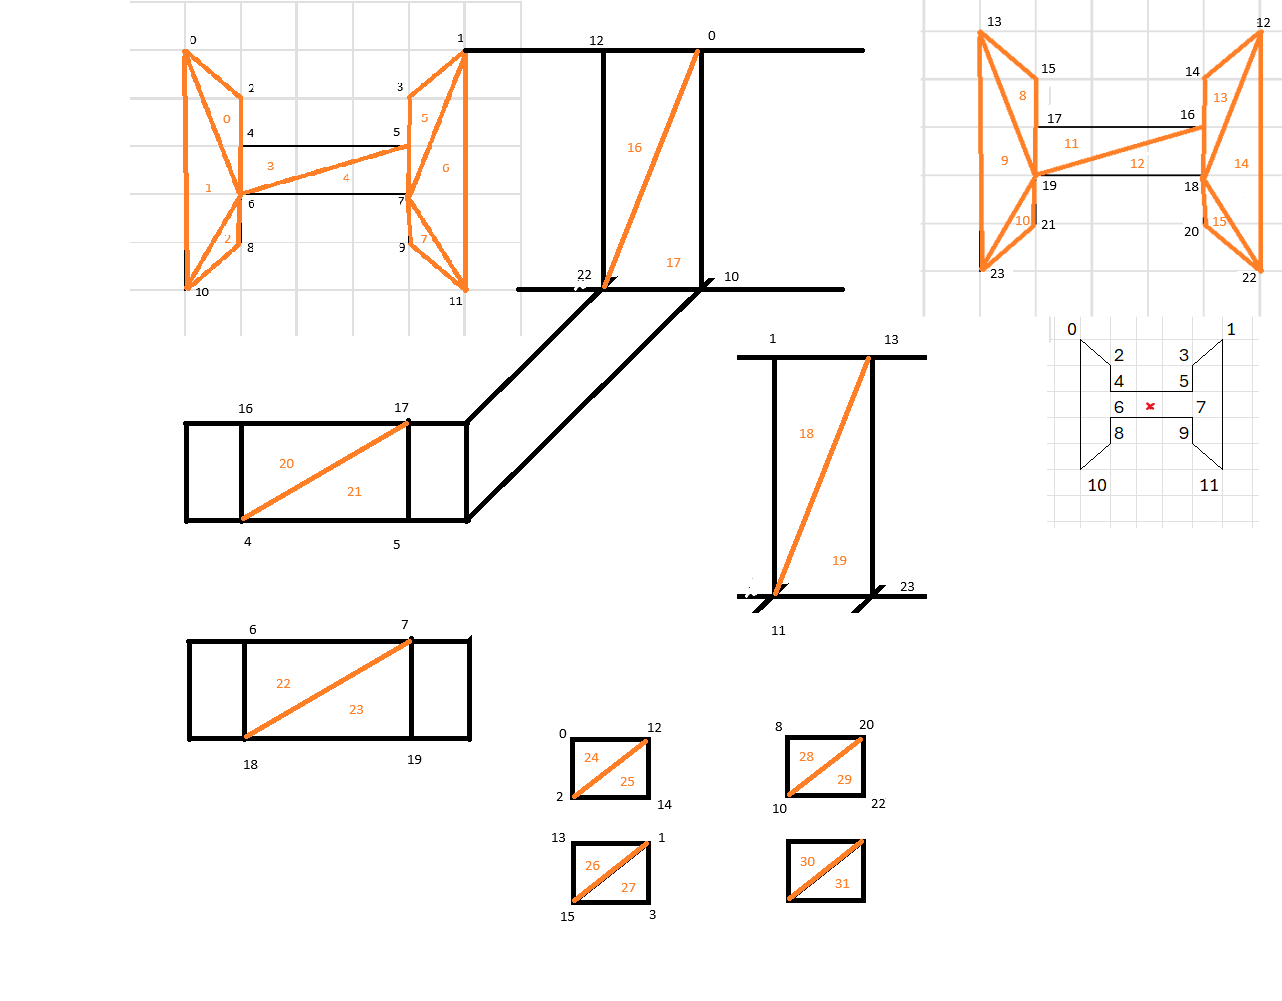
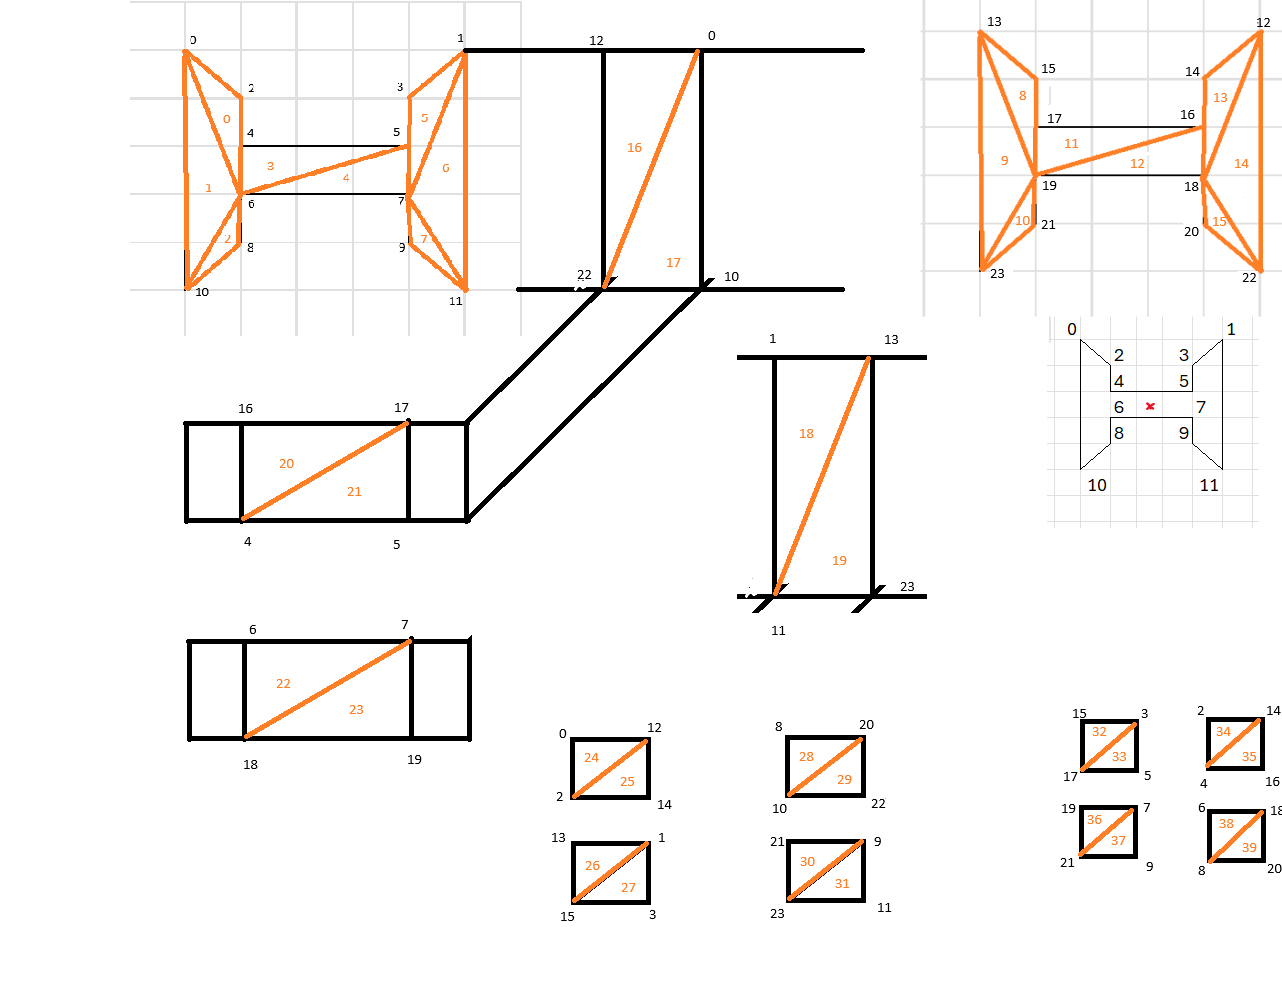
Began work on textures and normals Signed-off-by: Student Harvey Smith (TL_KCOMP_B_Y3) <t00264389@mymtu.ie>

diff --git a/Letter Graphics/Assets/Scripts/Model.cs b/Letter Graphics/Assets/Scripts/Model.cs
@@ -5,15 +5,123 @@ public class Model
 {
     List<Vector3Int> faces = new List<Vector3Int>();
     List<Vector3> vertices = new List<Vector3>();
+    List<Vector2> texture_coordinates = new List<Vector2>();
+    List<Vector3Int> texture_index_list = new List<Vector3Int>();
+    List<Vector3> normals = new List<Vector3>();
+
+
 
     public Model()
     {
         addVertices();
         addFaces();
+        addTextureCoords();
+        addTexttureIndex();
+        addNormals();
     }
 
+    private void addNormals()
+    {
+        normals.Add(new Vector3(0, 0, -1)); //0
+        normals.Add(new Vector3(0, 0, -1)); //1
+        normals.Add(new Vector3(0, 0, -1)); //2
+        normals.Add(new Vector3(0, 0, -1)); //3
+        normals.Add(new Vector3(0, 0, -1)); //4
+        normals.Add(new Vector3(0, 0, -1)); //5
+        normals.Add(new Vector3(0, 0, -1)); //6
+        normals.Add(new Vector3(0, 0, -1)); //7
+
+        normals.Add(new Vector3(0, 0, 1)); //8
+        normals.Add(new Vector3(0, 0, 1)); //9
+        normals.Add(new Vector3(0, 0, 1)); //10
+        normals.Add(new Vector3(0, 0, 1)); //11
+        normals.Add(new Vector3(0, 0, 1)); //12
+        normals.Add(new Vector3(0, 0, 1)); //13
+        normals.Add(new Vector3(0, 0, 1)); //14
+        normals.Add(new Vector3(0, 0, 1)); //15
+
+
+
+
+    }
+    private void addTexttureIndex()
+    {
+        texture_index_list.Add(new Vector3Int(4, 0, 12)); //0
+        texture_index_list.Add(new Vector3Int(12, 0, 20)); //1
+        texture_index_list.Add(new Vector3Int(16, 12, 20)); //2
+        texture_index_list.Add(new Vector3Int(8, 12, 9)); //3
+        texture_index_list.Add(new Vector3Int(13, 9, 12)); //4
+        texture_index_list.Add(new Vector3Int(5, 13, 1)); //5
+        /*
+        texture_index_list.Add(new Vector3Int(, , )); //6
+        texture_index_list.Add(new Vector3Int(, , )); //7
+        texture_index_list.Add(new Vector3Int(, , )); //8
+        texture_index_list.Add(new Vector3Int(, , )); //9
+        texture_index_list.Add(new Vector3Int(, , )); //10
+        texture_index_list.Add(new Vector3Int(, , )); //11
+        texture_index_list.Add(new Vector3Int(, , )); //12
+        texture_index_list.Add(new Vector3Int(, , )); //13
+        texture_index_list.Add(new Vector3Int(, , )); //14
+        texture_index_list.Add(new Vector3Int(, , )); //15
+        texture_index_list.Add(new Vector3Int(, , )); //16
+        texture_index_list.Add(new Vector3Int(, , )); //17
+        texture_index_list.Add(new Vector3Int(, , )); //18
+        texture_index_list.Add(new Vector3Int(, , )); //19
+        texture_index_list.Add(new Vector3Int(, , )); //20
+        texture_index_list.Add(new Vector3Int(, , )); //21
+        texture_index_list.Add(new Vector3Int(, , )); //22
+        texture_index_list.Add(new Vector3Int(, , )); //23
+        */
+
+
+
+
+    }
+
+    private void addTextureCoords()
+    {
+        texture_coordinates.Add(new Vector2(118 , 101)); //0
+        texture_coordinates.Add(new Vector2(268 , 101)); //1
+        texture_coordinates.Add(new Vector2(353 , 101)); //2
+        texture_coordinates.Add(new Vector2(503 , 101)); //3
+        texture_coordinates.Add(new Vector2(148 , 133)); //4
+        texture_coordinates.Add(new Vector2(238 , 133)); //5
+        texture_coordinates.Add(new Vector2(383, 133)); //6
+        texture_coordinates.Add(new Vector2(473, 133)); //7
+        texture_coordinates.Add(new Vector2(148, 165)); //8
+        texture_coordinates.Add(new Vector2(238, 165)); //9
+        texture_coordinates.Add(new Vector2(383 , 165)); //10
+        texture_coordinates.Add(new Vector2(473 , 165)); //11
+        texture_coordinates.Add(new Vector2(148, 197)); //12
+        texture_coordinates.Add(new Vector2(238, 197)); //13
+        texture_coordinates.Add(new Vector2(383, 197)); //14
+        texture_coordinates.Add(new Vector2(473, 197)); //15
+        texture_coordinates.Add(new Vector2(148, 229)); //16
+        texture_coordinates.Add(new Vector2(238, 229)); //17
+        texture_coordinates.Add(new Vector2(383, 229)); //18
+        texture_coordinates.Add(new Vector2(473, 229)); //19
+        texture_coordinates.Add(new Vector2(118, 261)); //20
+        texture_coordinates.Add(new Vector2(268, 261)); //21
+        texture_coordinates.Add(new Vector2(353, 261)); //22
+        texture_coordinates.Add(new Vector2(503, 261)); //23
+
+        /*
+        texture_coordinates.Add(new Vector3( , )); //24
+        texture_coordinates.Add(new Vector3( , )); //25
+        texture_coordinates.Add(new Vector3( , )); //26
+        texture_coordinates.Add(new Vector3( , )); //27
+        texture_coordinates.Add(new Vector3( , )); //28
+        texture_coordinates.Add(new Vector3( , )); //29
+        texture_coordinates.Add(new Vector3( , )); //30
+        texture_coordinates.Add(new Vector3( , )); //31
+        */
+
+
+
+    }
     private void addVertices()
     {
+        ///Front Verts
         vertices.Add(new Vector3(-2.5f, 2.5f, -1f)); //0
         vertices.Add(new Vector3(2.5f, 2.5f, -1f)); //1
         vertices.Add(new Vector3(-1.5f, 1.5f, -1f)); //2
@@ -27,6 +135,7 @@ public class Model
         vertices.Add(new Vector3(-2.5f, -2.5f, -1f)); //10
         vertices.Add(new Vector3(2.5f, -2.5f, -1f)); //11
 
+        ///Back Verts
         vertices.Add(new Vector3(-2.5f, 2.5f, 1f)); //12
         vertices.Add(new Vector3(2.5f, 2.5f, 1f)); //13
         vertices.Add(new Vector3(-1.5f, 1.5f, 1f)); //14
@@ -45,6 +154,7 @@ public class Model
 
     private void addFaces()
     {
+        ///Front Faces
         faces.Add(new Vector3Int(2, 0, 6)); //0
         faces.Add(new Vector3Int(6, 0, 10)); //1
         faces.Add(new Vector3Int(8, 6, 10)); //2
@@ -54,6 +164,7 @@ public class Model
         faces.Add(new Vector3Int(7, 11, 1)); //6
         faces.Add(new Vector3Int(9, 11, 7)); //7
 
+        ///Back Faces
         faces.Add(new Vector3Int(15, 13, 19)); //8
         faces.Add(new Vector3Int(19, 13, 23)); //9
         faces.Add(new Vector3Int(21, 19, 23)); //10
@@ -63,30 +174,53 @@ public class Model
         faces.Add(new Vector3Int(18, 22, 12)); //14
         faces.Add(new Vector3Int(20, 22, 18)); //15
 
+        ///Left Side Faces
         faces.Add(new Vector3Int(12, 22, 0)); //16
         faces.Add(new Vector3Int(10, 0, 22)); //17
 
+        ///Right Side Faces
         faces.Add(new Vector3Int(1, 11, 13)); //18
         faces.Add(new Vector3Int(23, 13, 11)); //19
 
+        ///Top Faces
         faces.Add(new Vector3Int(16, 4, 17)); //20
         faces.Add(new Vector3Int(5, 17, 4)); //21
 
+        ///Bottom Faces
         faces.Add(new Vector3Int(6, 18, 7)); //22
         faces.Add(new Vector3Int(19, 7, 18)); //23
 
+        ///Top Left Slant Faces
         faces.Add(new Vector3Int(0, 2, 12)); //24
         faces.Add(new Vector3Int(14, 12, 2)); //25
 
+        ///Top Right Slant Faces
         faces.Add(new Vector3Int(13, 15, 1)); //26
         faces.Add(new Vector3Int(3, 1, 15)); //27
 
+        ///Bottom Left Slant Faces
+        faces.Add(new Vector3Int(8, 10, 20)); //28
+        faces.Add(new Vector3Int(22, 20, 10)); //29
 
+        ///Bottom Right Slant Faces
+        faces.Add(new Vector3Int(21, 23, 9)); //30
+        faces.Add(new Vector3Int(11, 9, 23)); //31
 
+        ///Top Right Inside Side Faces
+        faces.Add(new Vector3Int(15, 17, 3)); //32
+        faces.Add(new Vector3Int(5, 3, 17)); //33
 
+        ///Top Left Inside Sides Faces
+        faces.Add(new Vector3Int(2, 4, 14)); //34
+        faces.Add(new Vector3Int(16, 14, 4)); //35
 
+        ///Bottom Right Inside Sides Faces
+        faces.Add(new Vector3Int(19, 21, 7)); //36
+        faces.Add(new Vector3Int(9, 7, 21)); //37
 
-
+        ///Bottom Left Inside Sides Faces
+        faces.Add(new Vector3Int(6, 8, 18)); //38
+        faces.Add(new Vector3Int(20, 18, 8)); //39
 
     }
 
@@ -100,14 +234,14 @@ public class Model
 
         List<Vector3> coords = new List<Vector3>();
         List<int> dummy_indices = new List<int>();
-        /*List<Vector2> text_coords = new List<Vector2>();
-        List<Vector3> normalz = new List<Vector3>();*/
+        List<Vector2> text_coords = new List<Vector2>();
+        List<Vector3> normalz = new List<Vector3>();
         //fghfg
         for (int i = 0; i < faces.Count; i++)
         {
-            //Vector3 normal_for_face = normals[i];
+           // Vector3 normal_for_face = normals[i];
 
-            //normal_for_face = new Vector3(normal_for_face.x, normal_for_face.y, -normal_for_face.z);
+           // normal_for_face = new Vector3(normal_for_face.x, normal_for_face.y, -normal_for_face.z);
 
             coords.Add(vertices[faces[i].x]); dummy_indices.Add(i * 3); //text_coords.Add(texture_coordinates[texture_index_list[i].x]); normalz.Add(normal_for_face);
 
